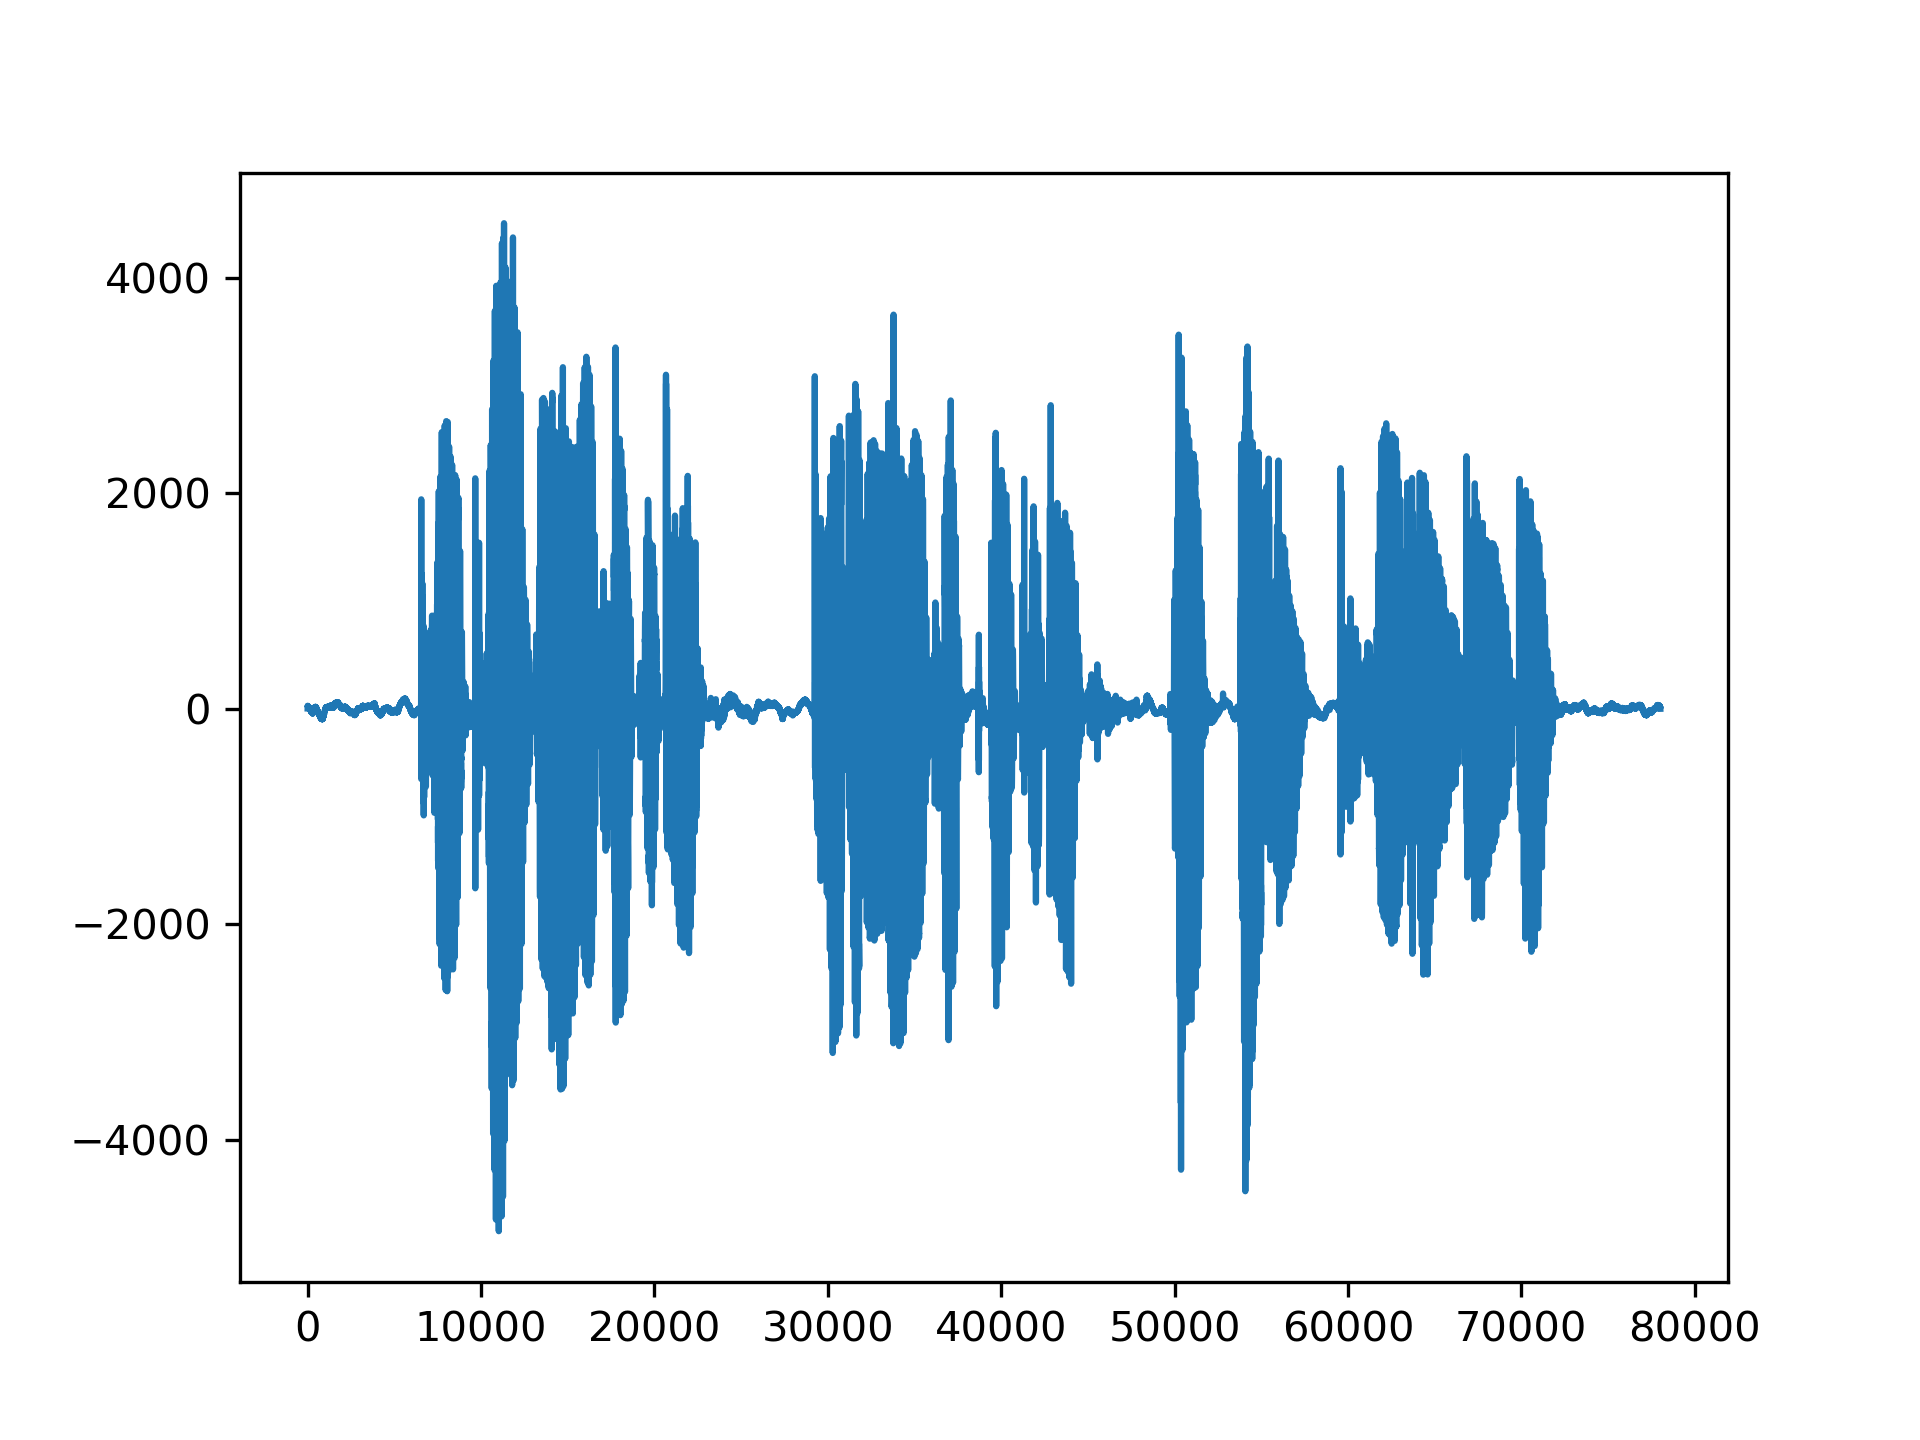
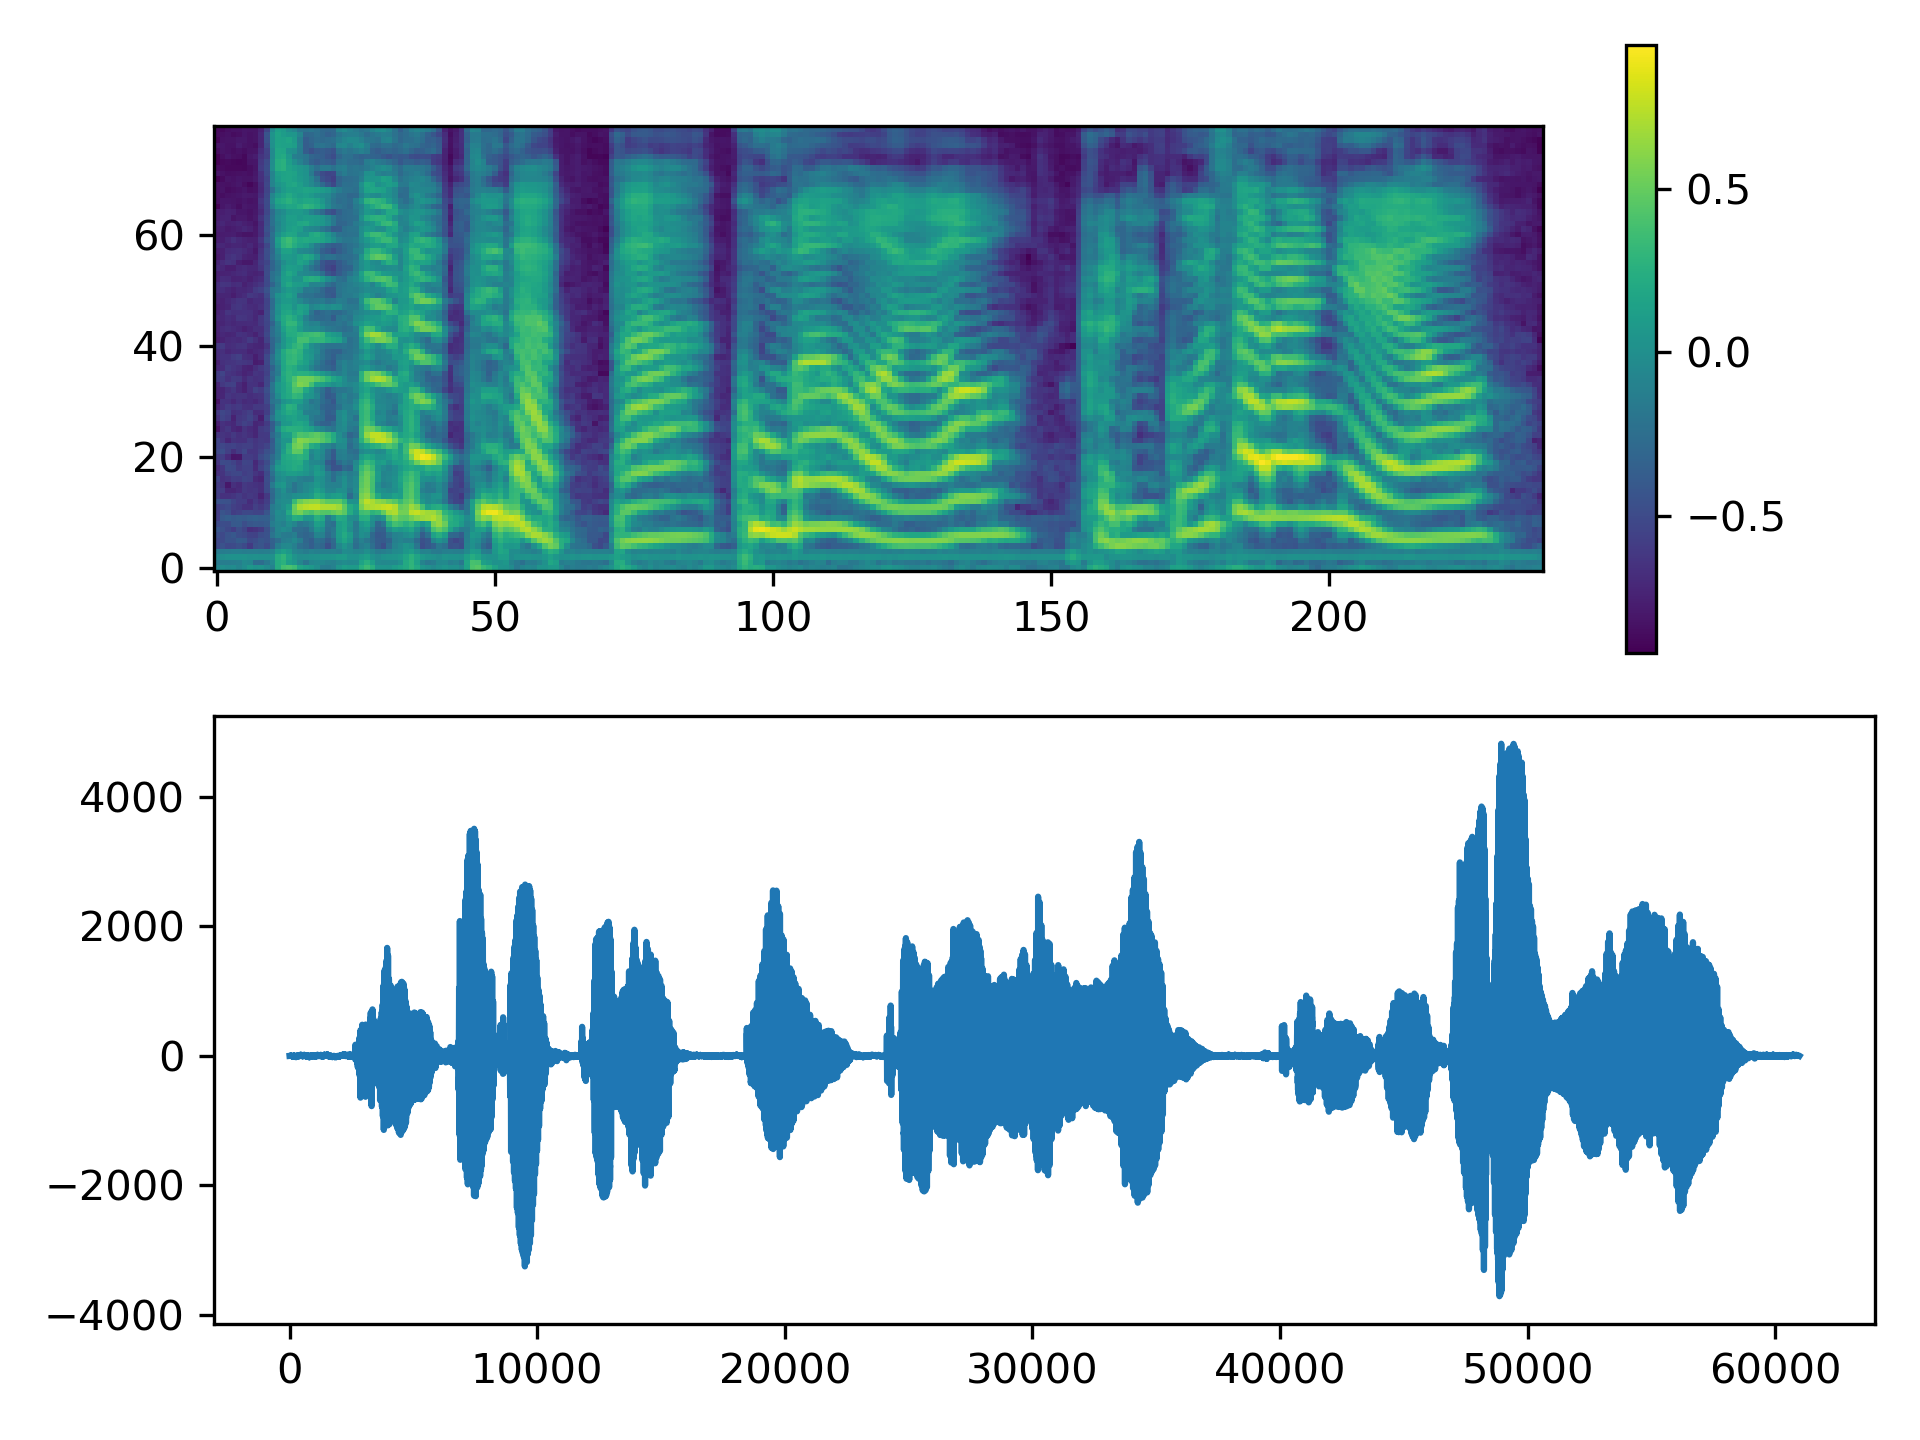
GST for emotion classification

diff --git a/main.py b/main.py
@@ -7,6 +7,27 @@ import numpy as np
 import matplotlib.pyplot as plt
 from scipy.io import wavfile
 
+import json
+import csv
+
+from tqdm import tqdm
+
+import torch
+import torch.nn as nn
+import torch.nn.functional as F
+from torch.optim import Adam
+
+from torch.utils.data import DataLoader
+
+from torch.nn.utils.rnn import pad_sequence
+
+from mel2samp import MEL2SAMP
+
+from tensorboardX import SummaryWriter
+
+EMO_LIST = ['neu', 'hap', 'ang', 'sad', 'fea', 'sur', 'dis']
+EMO_DICT = {emo: i for i, emo in enumerate(EMO_LIST)}
+
 def validate_pairs(raw_file, txt_file):
     r_file = os.path.basename(raw_file)
     t_file = os.path.basename(txt_file)
@@ -66,13 +87,75 @@ def load_raw(raw_file):
         y = np.frombuffer(f.read(), dtype=np.int16)
     return y
 
-def save_wav_plot(y):
-    plt.figure()
-    plt.plot(y)
+def save_wav_plot(mel, y):
+    mel = mel_normalize(mel)
+    fig, axes = plt.subplots(2, 1)
+    im = axes[0].imshow(mel, origin='reversed')
+    plt.colorbar(im, ax=axes[0])
+    axes[1].plot(y)
+    plt.tight_layout()
     plt.savefig('y.png', dpi=300)
     plt.close()
     wavfile.write('y.wav', 16000, y)
     return 
+
+def mel_normalize(mel, mel_min=-12):
+    return mel / (-mel_min / 2) + 1
+
+def batch_collator(metadata):
+
+    mel_list = list()
+    emo_list = list()
+    for f_file, script, emo in metadata:
+        emo_list.append(EMO_DICT[emo])
+        y = load_raw(f_file)
+        mel = MEL2SAMP.get_mel(torch.tensor(y)) # (M, T)
+        mel = mel_normalize(mel)
+        mel_list.append(mel.T)
+    
+    batched_emo = torch.tensor(emo_list)
+    batched_mel = pad_sequence(mel_list, batch_first=True) # (B, T, M)
+    batched_mel = batched_mel.unsqueeze(1) # (B, 1, T, M)
+
+    return batched_mel, batched_emo
+
+class ReferenceEncoder(nn.Module):
+
+    def __init__(self, conv_h, gru_h, num_emo):
+        super(ReferenceEncoder, self).__init__()
+
+        module_container = list()
+        for h_in, h_out in zip([1] + conv_h[:-1], conv_h):
+            module_container.extend([nn.Conv2d(h_in, h_out, kernel_size=3, stride=2, padding=1), 
+                                     nn.ReLU(),
+                                     nn.BatchNorm2d(h_out)])
+
+        self.conv_layers = nn.Sequential(*module_container)
+        
+        self.gru = nn.GRU(conv_h[-1] * 2, gru_h, batch_first=True)
+        # input of shape (batch, seq_len, input_size)
+
+        self.fc = nn.Linear(gru_h, num_emo)
+
+    def forward(self, input_tensor):
+        # tensor = self.conv(input_tensor)
+        # tensor = F.relu(tensor)
+        # tensor = self.batch_norm(tensor)
+        tensor = self.conv_layers(input_tensor) # (B, H, T, M) 
+        tensor = tensor.transpose(1, 2) # (B, T, H, M[2]) 
+
+        B, T, H, M = tensor.shape
+        tensor = tensor.reshape(B, T, -1) # (B, T, H * M) 
+ 
+        tensor, h_n = self.gru(tensor) # (L, N, H), (1, N, H)
+        h_n.squeeze_(0) # (1, N, H) => (N, H)
+
+        h_n = torch.tanh(h_n)
+
+        pred = F.log_softmax(self.fc(h_n), dim=-1)
+
+        return pred
+
 
 '''
 For the reference encoder architecture (Figure 2), 
@@ -81,16 +164,114 @@ Each layer is composed of 3 × 3 filters with 2 × 2 stride,
 SAME padding and ReLU activation. 
 Batch normalization (Ioffe & Szegedy, 2015) is applied to every layer. 
 The number of filters in each layer doubles at half the rate of downsampling: 
-32, 32, 64, 64, 128, 128.
+32, 32, 64, 64, 128,
+'''
+
+'''
+We train our models for at least 200k steps with a minibatch size of 256 
+using the Adam optimizer (Kingma & Ba, 2015). 
+We start with a learning rate of 1 × 10−3 and decay it 
+to 5 × 10−4, 3 × 10−4, 1 × 10−4, and 5 × 10−5 
+at step 50k, 100k, 150k, and 200k respectively.
 '''
 
 if __name__ == "__main__":
     BASE_PATH = 'KoreanEmotionSpeech'
     metadata = load_meta(BASE_PATH)
 
+    device = 'cuda' if torch.cuda.is_available() else 'cpu'
+
     print(random.choice(metadata))
 
     # display_meta_statistics(metadata)
 
-    save_wav_plot(load_raw(random.choice(metadata)[0]))
+    y = load_raw(random.choice(metadata)[0])
+    mel = MEL2SAMP.get_mel(torch.tensor(y))
 
+    save_wav_plot(mel, y)
+
+    json_dict = json.load(open('config.json'))
+    model_params_dict = json_dict['model_config']
+    hyper_params_dict = json_dict['training_config']
+
+    if not os.path.isfile('train.csv') or not os.path.isfile('test.csv'):
+        random.shuffle(metadata)
+        split_idx = int(len(metadata) * hyper_params_dict['test_ratio'])
+        test_meta = metadata[:split_idx]
+        train_meta = metadata[split_idx:]
+
+        with open('train.csv', 'w') as f:
+            csv_writer =  csv.writer(f)
+            csv_writer.writerows(train_meta)
+        
+        with open('test.csv', 'w') as f:
+            csv_writer =  csv.writer(f)
+            csv_writer.writerows(test_meta)
+    else:
+        with open('train.csv', 'r') as f:
+            train_meta = [line for line in csv.reader(f)]
+        with open('test.csv', 'r') as f:
+            test_meta = [line for line in csv.reader(f)]
+    
+    print(model_params_dict)
+
+    model = ReferenceEncoder(**model_params_dict)
+    model = model.to(device)
+    optimizer = Adam(model.parameters(), lr=hyper_params_dict['lr'])
+    loss_func = nn.NLLLoss()
+
+    summary_writer = SummaryWriter()
+
+    train_data_loader = DataLoader(train_meta, batch_size=hyper_params_dict['batch_size'], 
+                                   shuffle=True, num_workers=2, 
+                                   collate_fn=batch_collator, drop_last=False)
+
+    test_data_loader = DataLoader(test_meta, batch_size=hyper_params_dict['batch_size'], 
+                                  shuffle=False, num_workers=2, 
+                                  collate_fn=batch_collator, drop_last=True)
+
+    # input_tensor = torch.rand([4, 72, 80]).unsqueeze(1)
+
+    step = 0
+
+    for i in range(hyper_params_dict['num_epoch']):
+        model.train()
+        loss_list = list()
+        acc_list = list()
+        for batched_mel, batched_emo in tqdm(train_data_loader):
+            optimizer.zero_grad()
+            pred_tensor = model(batched_mel.to(device))
+            loss = loss_func(pred_tensor, batched_emo.to(device))
+            loss.backward()
+            optimizer.step()
+            loss_list.append(loss.item())
+            acc_list.append(torch.mean((torch.argmax(pred_tensor.cpu(), dim=-1) == batched_emo).float()))
+            step += 1
+        summary_writer.add_scalar('loss/train', 
+                                  np.mean(loss_list), 
+                                  global_step=step)
+        summary_writer.add_scalar('acc/train', 
+                                  np.mean(acc_list), 
+                                  global_step=step)
+
+        model.eval()
+        loss_list = list()
+        acc_list = list()
+        for batched_mel, batched_emo in tqdm(test_data_loader):
+            pred_tensor = model(batched_mel.to(device))
+            loss = loss_func(pred_tensor, batched_emo.to(device))
+            loss_list.append(loss.item())
+            acc_list.append(torch.mean((torch.argmax(pred_tensor.cpu(), dim=-1) == batched_emo).float()))
+        # print(np.mean(loss_list))
+        summary_writer.add_scalar('loss/eval', 
+                            np.mean(loss_list), 
+                            global_step=step)
+        summary_writer.add_scalar('acc/eval', 
+                            np.mean(acc_list), 
+                            global_step=step)
+
+    # pred_tensor = model(input_tensor)
+
+    # print(pred_tensor)
+
+    # print(f'{input_tensor.shape} => {pred_tensor.shape}')

diff --git a/mel2samp.py b/mel2samp.py
@@ -1,0 +1,15 @@
+import sys
+sys.path.insert(0, 'waveglow')
+sys.path.insert(0, 'waveglow/tacotron2')
+# print(sys.path)
+from waveglow.mel2samp import Mel2Samp
+
+import json
+
+mel_dict = json.load(open('config.json'))['mel_config']
+MEL2SAMP = Mel2Samp(**mel_dict)
+
+if __name__ == "__main__":
+    mel_dict = json.load(open('config.json'))['mel_config']
+    print(Mel2Samp)
+    mel2samp = Mel2Samp(**mel_dict)
